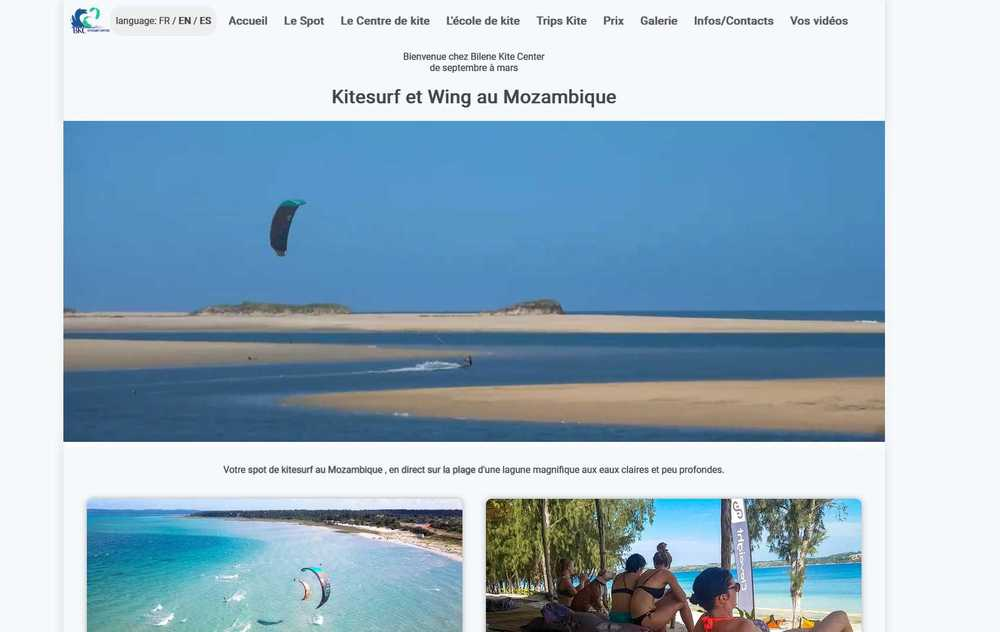
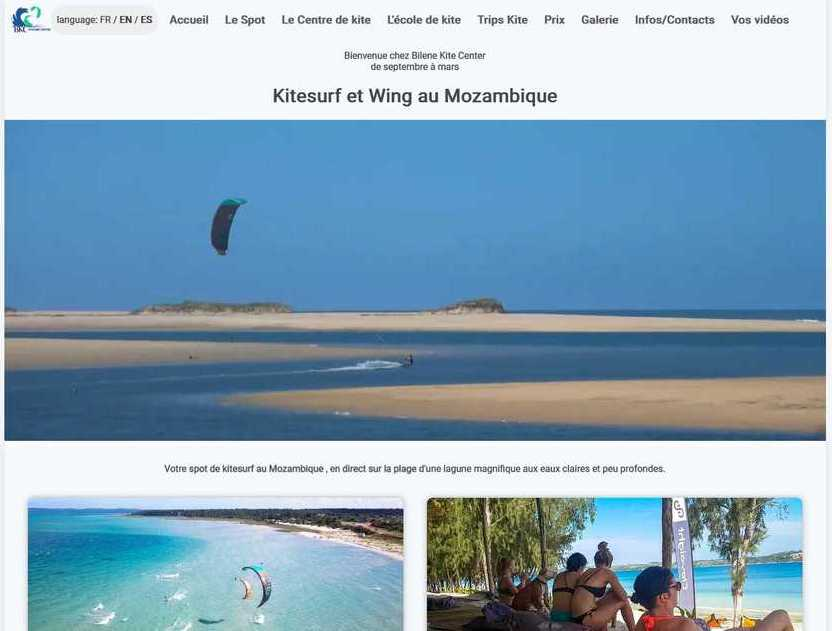
personnalisation

diff --git a/css/general.css b/css/general.css
@@ -1,1 +1,1 @@
-@import"https://fonts.googleapis.com/css2?family=Audiowide&family=Josefin+Sans:wght@100&family=Rambla&display=swap";@keyframes shadow-pop-br{0%{-webkit-box-shadow:0 0 #3e3e3e,0 0 #3e3e3e,0 0 #3e3e3e,0 0 #3e3e3e,0 0 #3e3e3e,0 0 #3e3e3e,0 0 #3e3e3e,0 0 #3e3e3e;box-shadow:0 0 #3e3e3e,0 0 #3e3e3e,0 0 #3e3e3e,0 0 #3e3e3e,0 0 #3e3e3e,0 0 #3e3e3e,0 0 #3e3e3e,0 0 #3e3e3e;-webkit-transform:translateX(0) translateY(0);transform:translateX(0) translateY(0)}100%{-webkit-box-shadow:1px 1px #3e3e3e,2px 2px #3e3e3e,3px 3px #3e3e3e,4px 4px #3e3e3e,5px 5px #3e3e3e,6px 6px #3e3e3e,7px 7px #3e3e3e,8px 8px #3e3e3e;box-shadow:1px 1px #3e3e3e,2px 2px #3e3e3e,3px 3px #3e3e3e,4px 4px #3e3e3e,5px 5px #3e3e3e,6px 6px #3e3e3e,7px 7px #3e3e3e,8px 8px #3e3e3e;-webkit-transform:translateX(-6px) translateY(-6px);transform:translateX(-6px) translateY(-6px)}}@keyframes shadow-push{0%{-webkit-box-shadow:1px 1px #3e3e3e,2px 2px #3e3e3e,3px 3px #3e3e3e,4px 4px #3e3e3e,5px 5px #3e3e3e,6px 6px #3e3e3e,7px 7px #3e3e3e,8px 8px #3e3e3e;box-shadow:1px 1px #3e3e3e,2px 2px #3e3e3e,3px 3px #3e3e3e,4px 4px #3e3e3e,5px 5px #3e3e3e,6px 6px #3e3e3e,7px 7px #3e3e3e,8px 8px #3e3e3e;-webkit-transform:translateX(-6px) translateY(-6px);transform:translateX(-6px) translateY(-6px)}100%{-webkit-box-shadow:0 0 #3e3e3e,0 0 #3e3e3e,0 0 #3e3e3e,0 0 #3e3e3e,0 0 #3e3e3e,0 0 #3e3e3e,0 0 #3e3e3e,0 0 #3e3e3e;box-shadow:0 0 #3e3e3e,0 0 #3e3e3e,0 0 #3e3e3e,0 0 #3e3e3e,0 0 #3e3e3e,0 0 #3e3e3e,0 0 #3e3e3e,0 0 #3e3e3e;-webkit-transform:translateX(0) translateY(0);transform:translateX(0) translateY(0)}}@keyframes arrow{0%{transform:translateY(0px)}38%{transform:translateY(8px)}100%{transform:translateY(0px)}}html{scroll-behavior:smooth}body{color:#283655 !important;background-color:#f7faff !important;font-family:"Rambla",sans-serif}h2,h3{font-family:"Audiowide",sans-serif;letter-spacing:.2em;text-transform:uppercase;text-shadow:-1px -1px 1px #283655}li{list-style:none}.navbar{background-color:#fafafa;opacity:.9;height:42px;transition:.7s}.navbar-nav{width:80% !important;margin:0 auto;justify-content:space-between}header{text-align:center;height:80vh;background:url(../media/header.jpg) no-repeat fixed 50% 50%;background-size:cover}h1{padding:90px 0 10px 0;font-family:"Josefin Sans",sans-serif;font-size:4.3em;text-transform:uppercase}#line{height:1px;background-color:#b3aca7;width:25%;margin:0 auto}h2{padding:20px 0 50px 0;font-size:3em;text-transform:uppercase}.presentation{height:240px;margin-top:20px}.infos{border:1px solid #b3aca7;display:flex;flex-direction:column;justify-content:space-between;padding:20px 0}.photo{border:1px solid #b3aca7;display:flex}.photo img{justify-content:center;align-items:center;padding:5px;max-width:90%;object-fit:cover;border-radius:10px;box-shadow:0 0 4px #111}header .button{margin-top:45px}header .button a{padding:20px 80px;border:1px solid #b3aca7;width:300px}header .button a:hover{background-color:#b3aca7;color:#e2dedb;transition:all .3s ease-in-out;text-decoration:none}#langages{padding:80px 110px 80px 50px;margin:120px 0 0 6%;height:620px;width:47%;max-width:640px;background:linear-gradient(115deg, #eeed64 0%, rgba(200, 38, 180, 0.47) 40%, rgba(89, 155, 223, 0.48) 80%);clip-path:polygon(0 7%, 100% 0%, 83% 100%, 0 94%)}#langages .bar{padding:10px 0 4px 0;letter-spacing:.1em}#langlist{margin:40px -50px -150px -50px;display:flex;flex-direction:column;justify-content:space-between}.langpics{display:flex;justify-content:space-around;align-items:center}.langpics img{width:100%;max-width:100px}#formation{position:relative;top:-200px;float:right;margin-right:5%;padding:100px 0 60px 50px;width:45%;max-width:660px;background:linear-gradient(19deg, rgba(0, 180, 219, 0.69) 0%, #0083b0 80%);clip-path:polygon(0 12%, 100% 0%, 100% 100%, 0 91%)}#formation h4{font-weight:bold;letter-spacing:.08em;padding-bottom:10px;color:#005978;text-shadow:-1px -1px 1px #35b4d5}#autodidacte{padding-top:20px}#fcc{padding:50px 0 0 9%}#occ{padding:50px 0 0 18%}.counter{display:flex;text-align:center}.data{border:1px solid #35b4d5;width:170px;margin:0 4%;box-shadow:0 0 8px #1c9dc4;padding:5px 20px}.counter-value{font-size:2em}.data-span{font-size:1.8em}#parcours{max-width:800px;margin:640px auto 180px auto;padding:40px 30px 100px 30px;background:url(/media/parcours.jpg) no-repeat fixed 50% 50%;background-size:cover;border-radius:8px;box-shadow:-1px -1px 8px #283655}#parcours h3{font-size:2.5em;padding-bottom:30px}#parcours h4{font-size:1.6em;color:#ff4e50;margin-left:20px}#parcours h6{font-style:italic;color:#edca21;margin-left:20px}#parcours p{line-height:1.9em}.timeline{border-top:3px solid;border-image:linear-gradient(to right, #edca21, #ff4e50);border-image-slice:1;margin:0;padding:40px;position:relative}.timeline:nth-child(1):after{content:"▲";color:#ff4e50;position:absolute;top:-10px;right:-10px;box-sizing:content-box !important}.timeline:nth-child(1){border-bottom:3px solid;border-top:none;width:80%}.timeline:nth-child(2){border-top:none}.timeline:nth-child(odd){border-right:3px solid;padding-left:0}.timeline:nth-child(even){border-left:3px solid;padding-right:0}#portfolio{margin:0 2% 0 2%;padding:20px 10px 60px 40px;background-color:rgba(179,172,167,.08);box-shadow:0px 0px 1px #b3aca7}#portfolio h3{font-size:3em;padding-bottom:15px}.projet{display:flex}.projet:nth-child(2){margin-left:3%}.projet:nth-child(3){margin-left:6%}.cadre{position:relative;padding:40px 20px 25px 0;width:60%;max-width:600px;border:none;outline:none;background-color:rgba(0,0,0,0);margin:10px 8px;color:#b3aca7;text-align:center}.img-container{height:250px;width:90%;max-width:500px;overflow:hidden;margin:0 auto;box-shadow:1px 1px 10px #111}.img-container img{position:relative;height:100%;margin:0 auto}.img-container:hover img{transform:scale(1.07);transform-origin:50% 50%;filter:contrast(140%);transition:.3s ease-in-out}.cadre:before,.cadre:after{content:"";display:block;position:absolute;width:20%;height:20%;border:1px solid;transition:all .3s ease;border-radius:2px;z-index:-1}.cadre:before{top:15px;left:0;border-bottom-color:rgba(0,0,0,0);border-right-color:rgba(0,0,0,0)}.cadre:after{bottom:0;right:15px;border-top-color:rgba(0,0,0,0);border-left-color:rgba(0,0,0,0)}.cadre:hover:before,.cadre:hover:after{border-color:#b3aca7;width:100%;height:100%}.legende{max-width:350px;padding:50px 0 0 20px;opacity:0;transition:4s ease-in-out}.projet:hover .legende{opacity:1;transition:2s ease}.legende a{padding:16px 10px 10px 10px;margin-top:20px;font-size:1.1em;float:right;border-radius:3px;background:#e2dedb;animation:shadow-pop-br .3s cubic-bezier(0.47, 0, 0.745, 0.715) both}.legende a:active{animation:shadow-push .3s cubic-bezier(0.47, 0, 0.745, 0.715) both}#other-skills{margin-top:80px;padding:50px 100px 100px 100px;width:100%;background-color:#375e97;clip-path:polygon(0 11%, 100% 0%, 100% 100%, 0 84%)}#other-skills h3{transform:rotate(-3.2deg);font-size:3em;padding-top:30px;text-shadow:-1px 1px 0px maroon;color:#edca21}.cloud{text-align:center;padding:50px 0;font-size:2em;text-transform:uppercase}#hobbies{padding:250px 50px 100px 50px;margin:-300px 0 -90px 0;clip-path:polygon(0 21%, 100% 31%, 100% 95%, 0 100%);background:#edca21}#hobbies h3{transform:rotate(4.2deg);font-size:3em;text-shadow:-1px 1px 0px #375e97}.pictures{display:flex;justify-content:center}.flip-box-back{color:#fff;transform:rotateY(180deg)}.flip-box-back div{margin:0 auto;writing-mode:vertical-lr;text-orientation:upright}.flip-box-back p{text-transform:uppercase;padding:10px;font-size-adjust:auto}.flip-box-front,.flip-box-back{position:absolute;width:100%;height:100%;backface-visibility:hidden}.flip-box{overflow:hidden;background-color:rgba(0,0,0,0);width:100%;max-width:300px;height:300px;perspective:200px}.flip-box-inner{position:relative;width:100%;max-width:300px;height:300px;transition:transform .8s;transform-style:preserve-3d}.flip-box:hover .flip-box-inner{transform:rotateY(180deg)}footer{background:url(../media/footer.jpg) 50% 0% no-repeat fixed;background-size:cover;text-align:center;padding:160px 50px 5}footer h3{margin-top:100px;padding:0 0 60px 0;font-size:2.5em}.footer-icons{margin:0 auto;display:flex;justify-content:space-between;max-width:60%}.network{font-size:4em;border:1px solid #b3aca7;padding:30px 45px;color:#726659;z-index:-1 !important;border-radius:50%}.network:hover{background:#b3aca7;color:#e2dedb;transition:all .3s ease-in-out}.arrow{width:50px;margin:0 auto;padding-top:15px;animation:arrow linear 1.5s;animation-iteration-count:infinite}.arrow a{font-size:3em;border:none;color:#726659}.arrow:hover i{transform:scale(1.6);transition:.5s ease-in-out}#contact{margin-top:40px}@media screen and (max-width: 900px){.info h5,.typed{font-size:.9em}#langages{margin-left:1%}#formation{margin-right:1%}.network{font-size:2em;padding:10px 20px}}@media screen and (max-width: 770px){.navbar{display:none !important}.fixed-top{position:unset !important}h1{padding-top:20px}h1,h2{font-size:2em}#langages{width:80%;margin-left:10%;margin-top:50px}#formation{margin:210px 0 0 10%;width:80%;float:none;display:block}.counter-value{font-size:1em}.data-span{font-size:.8em}#parcours{margin:-150px 0 180px 0}.legende{opacity:1}.legende h4{font-size:1.1em}.legende p{display:none}#portfolio{margin-top:-130px}#other-skills h3,#hobbies h3,footer h3{font-size:2em}.cloud{font-size:1em}.flip-box-back p{padding:10px 0px}.network{padding:14px 20px}}@media screen and (max-width: 520px){h3{font-size:1em !important}#langages{width:90%;margin-left:5%}#formation{margin:210px 0 0 5%;width:90%;float:none;display:block}.projet:nth-child(2),.projet:nth-child(3){margin-left:0}#other-skills{margin:10px 0 0 0;padding:50px 20px 80px 20px}#hobbies{display:none}footer h3{margin-top:20px;padding-top:20px}}/*# sourceMappingURL=general.css.map */
+@import"https://fonts.googleapis.com/css2?family=Audiowide&family=Josefin+Sans:wght@100&family=Rambla&display=swap";@keyframes shadow-pop-br{0%{-webkit-box-shadow:0 0 #3e3e3e,0 0 #3e3e3e,0 0 #3e3e3e,0 0 #3e3e3e,0 0 #3e3e3e,0 0 #3e3e3e,0 0 #3e3e3e,0 0 #3e3e3e;box-shadow:0 0 #3e3e3e,0 0 #3e3e3e,0 0 #3e3e3e,0 0 #3e3e3e,0 0 #3e3e3e,0 0 #3e3e3e,0 0 #3e3e3e,0 0 #3e3e3e;-webkit-transform:translateX(0) translateY(0);transform:translateX(0) translateY(0)}100%{-webkit-box-shadow:1px 1px #3e3e3e,2px 2px #3e3e3e,3px 3px #3e3e3e,4px 4px #3e3e3e,5px 5px #3e3e3e,6px 6px #3e3e3e,7px 7px #3e3e3e,8px 8px #3e3e3e;box-shadow:1px 1px #3e3e3e,2px 2px #3e3e3e,3px 3px #3e3e3e,4px 4px #3e3e3e,5px 5px #3e3e3e,6px 6px #3e3e3e,7px 7px #3e3e3e,8px 8px #3e3e3e;-webkit-transform:translateX(-6px) translateY(-6px);transform:translateX(-6px) translateY(-6px)}}@keyframes shadow-push{0%{-webkit-box-shadow:1px 1px #3e3e3e,2px 2px #3e3e3e,3px 3px #3e3e3e,4px 4px #3e3e3e,5px 5px #3e3e3e,6px 6px #3e3e3e,7px 7px #3e3e3e,8px 8px #3e3e3e;box-shadow:1px 1px #3e3e3e,2px 2px #3e3e3e,3px 3px #3e3e3e,4px 4px #3e3e3e,5px 5px #3e3e3e,6px 6px #3e3e3e,7px 7px #3e3e3e,8px 8px #3e3e3e;-webkit-transform:translateX(-6px) translateY(-6px);transform:translateX(-6px) translateY(-6px)}100%{-webkit-box-shadow:0 0 #3e3e3e,0 0 #3e3e3e,0 0 #3e3e3e,0 0 #3e3e3e,0 0 #3e3e3e,0 0 #3e3e3e,0 0 #3e3e3e,0 0 #3e3e3e;box-shadow:0 0 #3e3e3e,0 0 #3e3e3e,0 0 #3e3e3e,0 0 #3e3e3e,0 0 #3e3e3e,0 0 #3e3e3e,0 0 #3e3e3e,0 0 #3e3e3e;-webkit-transform:translateX(0) translateY(0);transform:translateX(0) translateY(0)}}@keyframes arrow{0%{transform:translateY(0px)}38%{transform:translateY(8px)}100%{transform:translateY(0px)}}html{scroll-behavior:smooth}body{color:#283655 !important;background-color:#f7faff !important;font-family:"Rambla",sans-serif}body a:hover{text-decoration:none;color:#a9a9a9}h2,h3{font-family:"Audiowide",sans-serif;letter-spacing:.2em;text-transform:uppercase;text-shadow:-1px -1px 1px #283655}li{list-style:none}.navbar{background-color:#fafafa;opacity:.9;height:42px;transition:.7s}.navbar-nav{width:80% !important;margin:0 auto;justify-content:space-between}header{text-align:center;height:80vh;background:url(../media/header.jpg) no-repeat fixed 50% 50%;background-size:cover}h1{padding:90px 0 10px 0;font-family:"Josefin Sans",sans-serif;font-size:4.3em;text-transform:uppercase}#line{height:1px;background-color:#b3aca7;width:25%;margin:0 auto}h2{padding:20px 0 50px 0;font-size:3em;text-transform:uppercase}.presentation{height:240px;margin-top:20px}.infos{border:1px solid #b3aca7;display:flex;flex-direction:column;justify-content:space-between;padding:20px 0}.photo{border:1px solid #b3aca7;display:flex;justify-content:center;padding:0}.photo img{margin:20px 0;padding:1px 0;max-width:100%;border-radius:10px}header .button{margin-top:45px}header .button a{padding:20px 80px;border:1px solid #b3aca7;width:300px}header .button a:hover{background-color:#b3aca7;color:#e2dedb;transition:all .3s ease-in-out;text-decoration:none}#langages{padding:80px 110px 80px 50px;margin:50px 0 0 6%;height:620px;width:47%;max-width:640px;background:linear-gradient(115deg, #eeed64 0%, rgba(200, 38, 180, 0.47) 40%, rgba(89, 155, 223, 0.48) 80%);clip-path:polygon(0 7%, 100% 0%, 83% 100%, 0 94%)}#langages .bar{padding:10px 0 4px 0;letter-spacing:.1em}#langlist{margin:40px -50px -150px -50px;display:flex;flex-direction:column;justify-content:space-between}.langpics{display:flex;justify-content:space-around;align-items:center}.langpics img{width:100%;max-width:100px}#formation{position:relative;top:-200px;float:right;margin-right:5%;padding:100px 0 60px 50px;width:45%;max-width:660px;background:linear-gradient(19deg, rgba(0, 180, 219, 0.69) 0%, #0083b0 80%);clip-path:polygon(0 12%, 100% 0%, 100% 100%, 0 91%)}#formation h4{font-weight:bold;letter-spacing:.08em;padding-bottom:10px;color:#005978;text-shadow:-1px -1px 1px #35b4d5}#autodidacte{padding-top:20px}#fcc{padding:50px 0 0 9%}#occ{padding:50px 0 0 18%}.counter{display:flex;text-align:center}.data{border:1px solid #35b4d5;width:170px;margin:0 4%;box-shadow:0 0 8px #1c9dc4;padding:5px 20px}.counter-value{font-size:2em}.data-span{font-size:1.8em}#parcours{max-width:800px;margin:640px auto 180px auto;padding:40px 30px 100px 30px;background:url(/media/parcours.jpg) no-repeat fixed 50% 50%;background-size:cover;border-radius:8px;box-shadow:-1px -1px 8px #283655}#parcours h3{font-size:2.5em;padding-bottom:30px}#parcours h4{font-size:1.6em;color:#ff4e50;margin-left:20px}#parcours h6{font-style:italic;color:#edca21;margin-left:20px}#parcours p{line-height:1.9em}.timeline{border-top:3px solid;border-image:linear-gradient(to right, #edca21, #ff4e50);border-image-slice:1;margin:0;padding:40px;position:relative}.timeline:nth-child(1):after{content:"▲";color:#ff4e50;position:absolute;top:-10px;right:-10px;box-sizing:content-box !important}.timeline:nth-child(1){border-bottom:3px solid;border-top:none;width:80%}.timeline:nth-child(2){border-top:none}.timeline:nth-child(odd){border-right:3px solid;padding-left:0}.timeline:nth-child(even){border-left:3px solid;padding-right:0}#portfolio{margin:0 2% 0 2%;padding:20px 10px 60px 40px;background-color:rgba(179,172,167,.08);box-shadow:0px 0px 1px #b3aca7}#portfolio h3{font-size:3em;padding-bottom:15px}.projet{display:flex}.projet:nth-child(2){margin-left:3%}.projet:nth-child(3){margin-left:6%}.cadre{position:relative;padding:40px 20px 25px 0;width:60%;max-width:600px;border:none;outline:none;background-color:rgba(0,0,0,0);margin:10px 8px;color:#b3aca7;text-align:center}.img-container{height:250px;width:90%;max-width:500px;overflow:hidden;margin:0 auto;box-shadow:1px 1px 10px #111}.img-container img{position:relative;height:100%;margin:0 auto}.img-container:hover img{transform:scale(1.07);transform-origin:50% 50%;filter:contrast(140%);transition:.3s ease-in-out}.cadre:before,.cadre:after{content:"";display:block;position:absolute;width:20%;height:20%;border:1px solid;transition:all .3s ease;border-radius:2px;z-index:-1}.cadre:before{top:15px;left:0;border-bottom-color:rgba(0,0,0,0);border-right-color:rgba(0,0,0,0)}.cadre:after{bottom:0;right:15px;border-top-color:rgba(0,0,0,0);border-left-color:rgba(0,0,0,0)}.cadre:hover:before,.cadre:hover:after{border-color:#b3aca7;width:100%;height:100%}.legende{max-width:350px;padding:50px 0 0 20px;opacity:0;transition:4s ease-in-out}.projet:hover .legende{opacity:1;transition:2s ease}.legende a{padding:16px 10px 10px 10px;margin-top:20px;font-size:1.1em;float:right;border-radius:3px;background:#e2dedb;animation:shadow-pop-br .3s cubic-bezier(0.47, 0, 0.745, 0.715) both}.legende a:active{animation:shadow-push .3s cubic-bezier(0.47, 0, 0.745, 0.715) both}#other-skills{margin-top:80px;padding:50px 100px 100px 100px;width:100%;background-color:#375e97;clip-path:polygon(0 11%, 100% 0%, 100% 100%, 0 84%)}#other-skills h3{transform:rotate(-3.2deg);font-size:3em;padding-top:30px;text-shadow:-1px 1px 0px maroon;color:#edca21}.cloud{text-align:center;padding:50px 0;font-size:2em;text-transform:uppercase}#hobbies{padding:250px 50px 100px 50px;margin:-300px 0 -90px 0;clip-path:polygon(0 21%, 100% 31%, 100% 95%, 0 100%);background:#edca21}#hobbies h3{transform:rotate(4.2deg);font-size:3em;text-shadow:-1px 1px 0px #375e97}.pictures{display:flex;justify-content:center}.flip-box-back{color:#fff;transform:rotateY(180deg)}.flip-box-back div{margin:0 auto;writing-mode:vertical-lr;text-orientation:upright}.flip-box-back p{text-transform:uppercase;padding:10px;font-size-adjust:auto}.flip-box-front,.flip-box-back{position:absolute;width:100%;height:100%;backface-visibility:hidden}.flip-box{overflow:hidden;background-color:rgba(0,0,0,0);width:100%;max-width:300px;height:300px;perspective:200px}.flip-box-inner{position:relative;width:100%;max-width:300px;height:300px;transition:transform .8s;transform-style:preserve-3d}.flip-box:hover .flip-box-inner{transform:rotateY(180deg)}footer{background:url(../media/footer.jpg) 50% 0% no-repeat fixed;background-size:cover;text-align:center;padding:160px 50px 5}footer h3{margin-top:100px;padding:0 0 60px 0;font-size:2.5em}.footer-icons{margin:0 auto;display:flex;justify-content:space-between;max-width:60%}.network{font-size:4em;border:1px solid #b3aca7;padding:30px 45px;color:#726659;z-index:-1 !important;border-radius:50%}.network:hover{background:#b3aca7;color:#e2dedb;transition:all .3s ease-in-out}.arrow{width:50px;margin:0 auto;padding-top:15px;animation:arrow linear 1.5s;animation-iteration-count:infinite}.arrow a{font-size:3em;border:none;color:#726659}.arrow:hover i{transform:scale(1.6);transition:.5s ease-in-out}#contact{margin-top:40px}@media screen and (max-width: 900px){.info h5,.typed{font-size:.9em}#langages{margin-left:1%}#formation{margin-right:1%}.network{font-size:2em;padding:10px 20px}}@media screen and (max-width: 770px){.navbar{display:none !important}.fixed-top{position:unset !important}h1{padding-top:20px}h1,h2{font-size:2em}#langages{width:80%;margin-left:10%;margin-top:50px}#formation{margin:210px 0 0 10%;width:80%;float:none;display:block}.counter-value{font-size:1em}.data-span{font-size:.8em}#parcours{margin:-150px 0 180px 0}.legende{opacity:1}.legende h4{font-size:1.1em}.legende p{display:none}#portfolio{margin-top:-130px}#other-skills h3,#hobbies h3,footer h3{font-size:2em}.cloud{font-size:1em}.flip-box-back p{padding:10px 0px}.network{padding:14px 20px}}@media screen and (max-width: 520px){h3{font-size:1em !important}#langages{width:90%;margin-left:5%}#formation{margin:210px 0 0 5%;width:90%;float:none;display:block}.projet:nth-child(2),.projet:nth-child(3){margin-left:0}#other-skills{margin:10px 0 0 0;padding:50px 20px 80px 20px}#hobbies{display:none}footer h3{margin-top:20px;padding-top:20px}}/*# sourceMappingURL=general.css.map */

diff --git a/index.html b/index.html
@@ -52,8 +52,8 @@
                 <div class="col-6 col-md-3 infos">
                     <!-- col-6 : de base, prend la moitié de la page, mais lorsque écran + grand, se met à 3 sur le côté -->
                     <h5><i class="fa fa-user"></i> 44 ans</h5>
-                    <h5><i class="fa fa-compass"></i> Lyon</h5>
-                    <h5><i class="fa fa-phone"></i> 06 51 79 05 40</h5>
+                    <h5><i class="fa fa-compass"></i> Rhône-Alpes</h5>
+                    <h5><i class="fa fa-envelope"></i> <a href="mailto:gsetienne@free.fr">contact</a></h5>
                 </div>
                 <div class="d-none d-md-block col-md-6">
                     <!-- col-md6 : ne s'affiche qu'à partir d'écran medium
@@ -96,64 +96,6 @@
                     <a href="https://fr.wikipedia.org/wiki/MongoDB" target="_blank"><img src="/media/icons/mongoDB.png" alt=""></a>
                     <a href="https://fr.wikipedia.org/wiki/Structured_Query_Language" target="_blank"><img src="/media/icons/SQL.png" alt=""></a>
                 </div>
-
-                <!--  -->
-
-                <!-- <div class="bar"><img src="./media/html.png" alt="html-icon"> HTML
-                </div>
-                <div class="progress">
-                    <div class="progress-bar progress-bar-striped progress-bar-animated" role="progressbar"
-                    aria-valuenow="92" aria-valuemin="0" aria-valuemax="100"
-                    style="width: 92%; background-color: #FF8000">92%</div>
-                </div>
-
-                <div class="bar"><img src="./media/css.png" alt="css-icon"> CSS
-                </div>
-                <div class="progress">
-                    <div class="progress-bar progress-bar-striped progress-bar-animated" role="progressbar"
-                    aria-valuenow="77" aria-valuemin="0" aria-valuemax="100"
-                    style="width: 77%; background-color: blue">77%</div>
-                </div>
-
-                <div class="bar"><img src="./media/js.png" alt="JS-icon"> JS
-                </div>
-                <div class="progress">
-                    <div class="progress-bar progress-bar-striped progress-bar-animated" role="progressbar"
-                    aria-valuenow="65" aria-valuemin="0" aria-valuemax="100"
-                    style="width: 65%; background-color: yellow">65%</div>
-                </div>
-
-                <div class="bar"><img src="./media/bootstrap.png" alt="html-icon"> BOOTSTRAP
-                </div>
-                <div class="progress">
-                    <div class="progress-bar progress-bar-striped progress-bar-animated" role="progressbar"
-                    aria-valuenow="80" aria-valuemin="0" aria-valuemax="100"
-                    style="width: 80%; background-color: violet">80%</div>
-                </div>
-
-                <div class="bar"><img src="./media/css.png" alt="css-icon"> CSS
-                </div>
-                <div class="progress">
-                    <div class="progress-bar progress-bar-striped progress-bar-animated" role="progressbar"
-                    aria-valuenow="77" aria-valuemin="0" aria-valuemax="100"
-                    style="width: 77%; background-color: blue">77%</div>
-                </div>
-
-                <div class="bar"><img src="./media/css.png" alt="css-icon"> CSS
-                </div>
-                <div class="progress">
-                    <div class="progress-bar progress-bar-striped progress-bar-animated" role="progressbar"
-                    aria-valuenow="77" aria-valuemin="0" aria-valuemax="100"
-                    style="width: 77%; background-color: blue">77%</div>
-                </div>
-
-                <div class="bar"><img src="./media/css.png" alt="css-icon"> CSS
-                </div>
-                <div class="progress">
-                    <div class="progress-bar progress-bar-striped progress-bar-animated" role="progressbar"
-                    aria-valuenow="77" aria-valuemin="0" aria-valuemax="100"
-                    style="width: 77%; background-color: blue">77%</div>
-                </div> -->
             </div>
         </section>
 
@@ -241,7 +183,8 @@
                     data-aos-once="false">
                         <h4>Développeur Freelance</h4>
                         <h6>2020 - 2022</h6>
-                        <p>Lorem, ipsum dolor sit amet consectetur adipisicing elit. Amet consectetur ipsa necessitatibus similique? Quos molestiae, rerum fugit laborum esse similique. Aliquam aut facere quia hic inventore illo perferendis repudiandae cupiditate!</p>
+                        <p>Intégration de maquette en partenariat avec des designers, implémentation de solutions backend sur des
+                             technologies Node, Express, MVC .net, mise en production, hébergement, sauvegarde, maintenance</p>
                     </div>
                 </div>            
                 <div class="timeline">
@@ -295,8 +238,7 @@
                     <div class="legende">
                         <h4><img src="./media/html.png" alt="html"> <img src="./media/css.png" alt="css"> <img src="./media/js.png" alt="JS"> <img src="./media/sass.png" alt="Sass">
                         Site vitrine pour un centre de kitesurf et wingsurf au Mozambique</h4>
-                        <p>Site internet Responsive, Mobile First, réalisé entièrement à la main en HTML/CSS/JS. Validé W3C, Optimisé SEO, son design a été réalisé par le développeur, il gagnerait à être repris par un designer.
-                            L'esthétique du site pourrait être améliorée, il est techniquement ultra optimisé pour les moteurs de recherche et positionnement SEO.
+                        <p>Site internet Responsive, Mobile First, réalisé entièrement à la main en HTML/CSS/JS. Validé W3C, Optimisé SEO, son design a été réalisé par le développeur.
                         </p>
                         <a href="https://github.com/Guillaume-Etienne/web_BKC.git" target="_blank"><h5>
                             <i class="fa fa-github"></i> > code source du projet
@@ -315,8 +257,7 @@
                     <div class="legende">
                         <h4><img src="./media/wp.png" alt="WordPress">
                         Site vitrine pour la société Vetisol à Mâcon</h4>
-                        <p>Site internet Responsive, réalisé en WordPress pour ses besoins de modifications par des non-développeurs. Son design a été réalisé par une agence spécialisée,
-                            il gagnerait à être re-développé en HTML/CSS/JS pour un meilleur positionnement SEO.
+                        <p>Site internet Responsive, réalisé en WordPress pour ses besoins de modifications par des non-développeurs. Son design a été réalisé par une agence spécialisée.                            
                         </p>
                         <a href="https://github.com/Guillaume-Etienne/web_BKC.git" target="_blank">
                             <h5>
@@ -328,8 +269,8 @@
                 <div class="projet">
                     <div class="cadre">
                         <div class="img-container">
-                            <a href="https://guillaume-etienne.github.io/P2-OpenClassRoom/" target="_blank">
-                                <img src="./media/projet-1-gui.JPG" alt="Site Internet Bilene Kite Center">
+                            <a href="https://guillaume-etienne.github.io/P2-Open-HTML-CSS-integration/" target="_blank">
+                                <img src="./media/projet-3.JPG" alt="Site Internet Réservia">
                             </a>
                         </div>
                     </div>
@@ -355,14 +296,14 @@
                     data-aos="fade-zoom-in"
                     data-aos-delay="500"
                     data-aos-duration="800">
-                    <span style="color:red;margin-left:-90%">github</span>
+                    <span style="color:red;margin-left:-90%">Anglais courant</span>
                 </div>
 
                 <div class="aos-items"
                     data-aos="fade-zoom-in"
                     data-aos-delay="500"
                     data-aos-duration="2800">
-                    <span style="color:indigo;margin-left:50%">Anglais courant</span>
+                    <span style="color:indigo;margin-left:50%">BootStrap</span>
                 </div>
 
                 <div class="aos-items"
@@ -376,7 +317,7 @@
                     data-aos="fade-zoom-in"
                     data-aos-delay="500"
                     data-aos-duration="2800">
-                    <span style="color:maroon;margin-left:-70%">Première</span>
+                    <span style="color:maroon;margin-left:-70%">Adobe Première</span>
                 </div>
 
                 <div class="aos-items"
@@ -400,7 +341,7 @@
                     <span style="color:pink;margin-left:-80%">.net</span>
                 </div>
 
-                <div class="aos-items"
+                <!-- <div class="aos-items"
                     data-aos="fade-zoom-in"
                     data-aos-delay="500"
                     data-aos-duration="100">
@@ -412,7 +353,7 @@
                     data-aos-delay="500"
                     data-aos-duration="2000">
                     <span style="color:red;margin-left:10%">github</span>
-                </div>
+                </div> -->
 
             </div>
         </section>

diff --git a/sass/general.scss b/sass/general.scss
@@ -23,6 +23,10 @@ body{
     // important : met en avance ce style (comparé à la masse de styles de bootstrap)
     background-color: $colorbackground !important;
     font-family: 'Rambla', sans-serif;
+    & a:hover{
+        text-decoration: none;
+        color: darkgray;
+    }
 }
 h2, h3{
     font-family: 'Audiowide', sans-serif;
@@ -33,6 +37,7 @@ h2, h3{
 li{
     list-style: none;
 }
+
 
 // ************************* HEADER ***************************
 
@@ -85,32 +90,18 @@ h2{
     justify-content: space-between;
     padding: 20px 0;
 }
-// .photo {
-//     border: 1px solid #b3aca7;
-//     position: relative;    
-// }
-// .photo img {
-//     position: absolute;
-//     top: 0;
-//     bottom: 0;
-//     left: 0;
-//     right: 0;
-//     margin: auto;
-//     height: auto;
-// }
-
-.photo{
+.photo{    
     border: 1px solid $colorline;
-    display: flex;    
-}
-.photo img{    
+    display: flex;
     justify-content: center;
-    align-items: center;
-    padding: 5px;
-    max-width: 90%;
-    object-fit: cover;
-    border-radius: 10px;
-    box-shadow: 0 0 4px #111;
+    padding: 0;  
+}
+.photo img{
+    margin: 20px 0;
+    padding: 1px 0;
+    max-width: 100%;
+    // object-fit: cover;
+    border-radius: 10px;    
 }
 header .button{
     margin-top: 45px;
@@ -130,7 +121,7 @@ header .button{
 // ************************* Langages ***************************
 #langages{
     padding: 80px 110px 80px 50px;
-    margin: 120px 0 0 6%;
+    margin: 50px 0 0 6%;
     height: 620px;
     width: 47%;
     max-width: 640px;

diff --git a/script.js b/script.js
@@ -28,7 +28,7 @@ window.addEventListener('scroll', function(){
 var typed = new Typed('.typed', {
     strings: ['Ingénieur réseau de formation, je me suis reconverti dans la programmation, développeur web depuis 2ans, C# /ASP / .net depuis 1 an.Spécialisé en intégration de maquettes, dans le développement d’interfaces mobiles et web, je vous accompagne depuis la création de votre site web, sa mise en ligne, son optimisation et évolution dans le temps.'],
     smartBackspace: true, // Default value
-    typeSpeed : 20,
+    typeSpeed : 5,
     loop:false
     });
 
